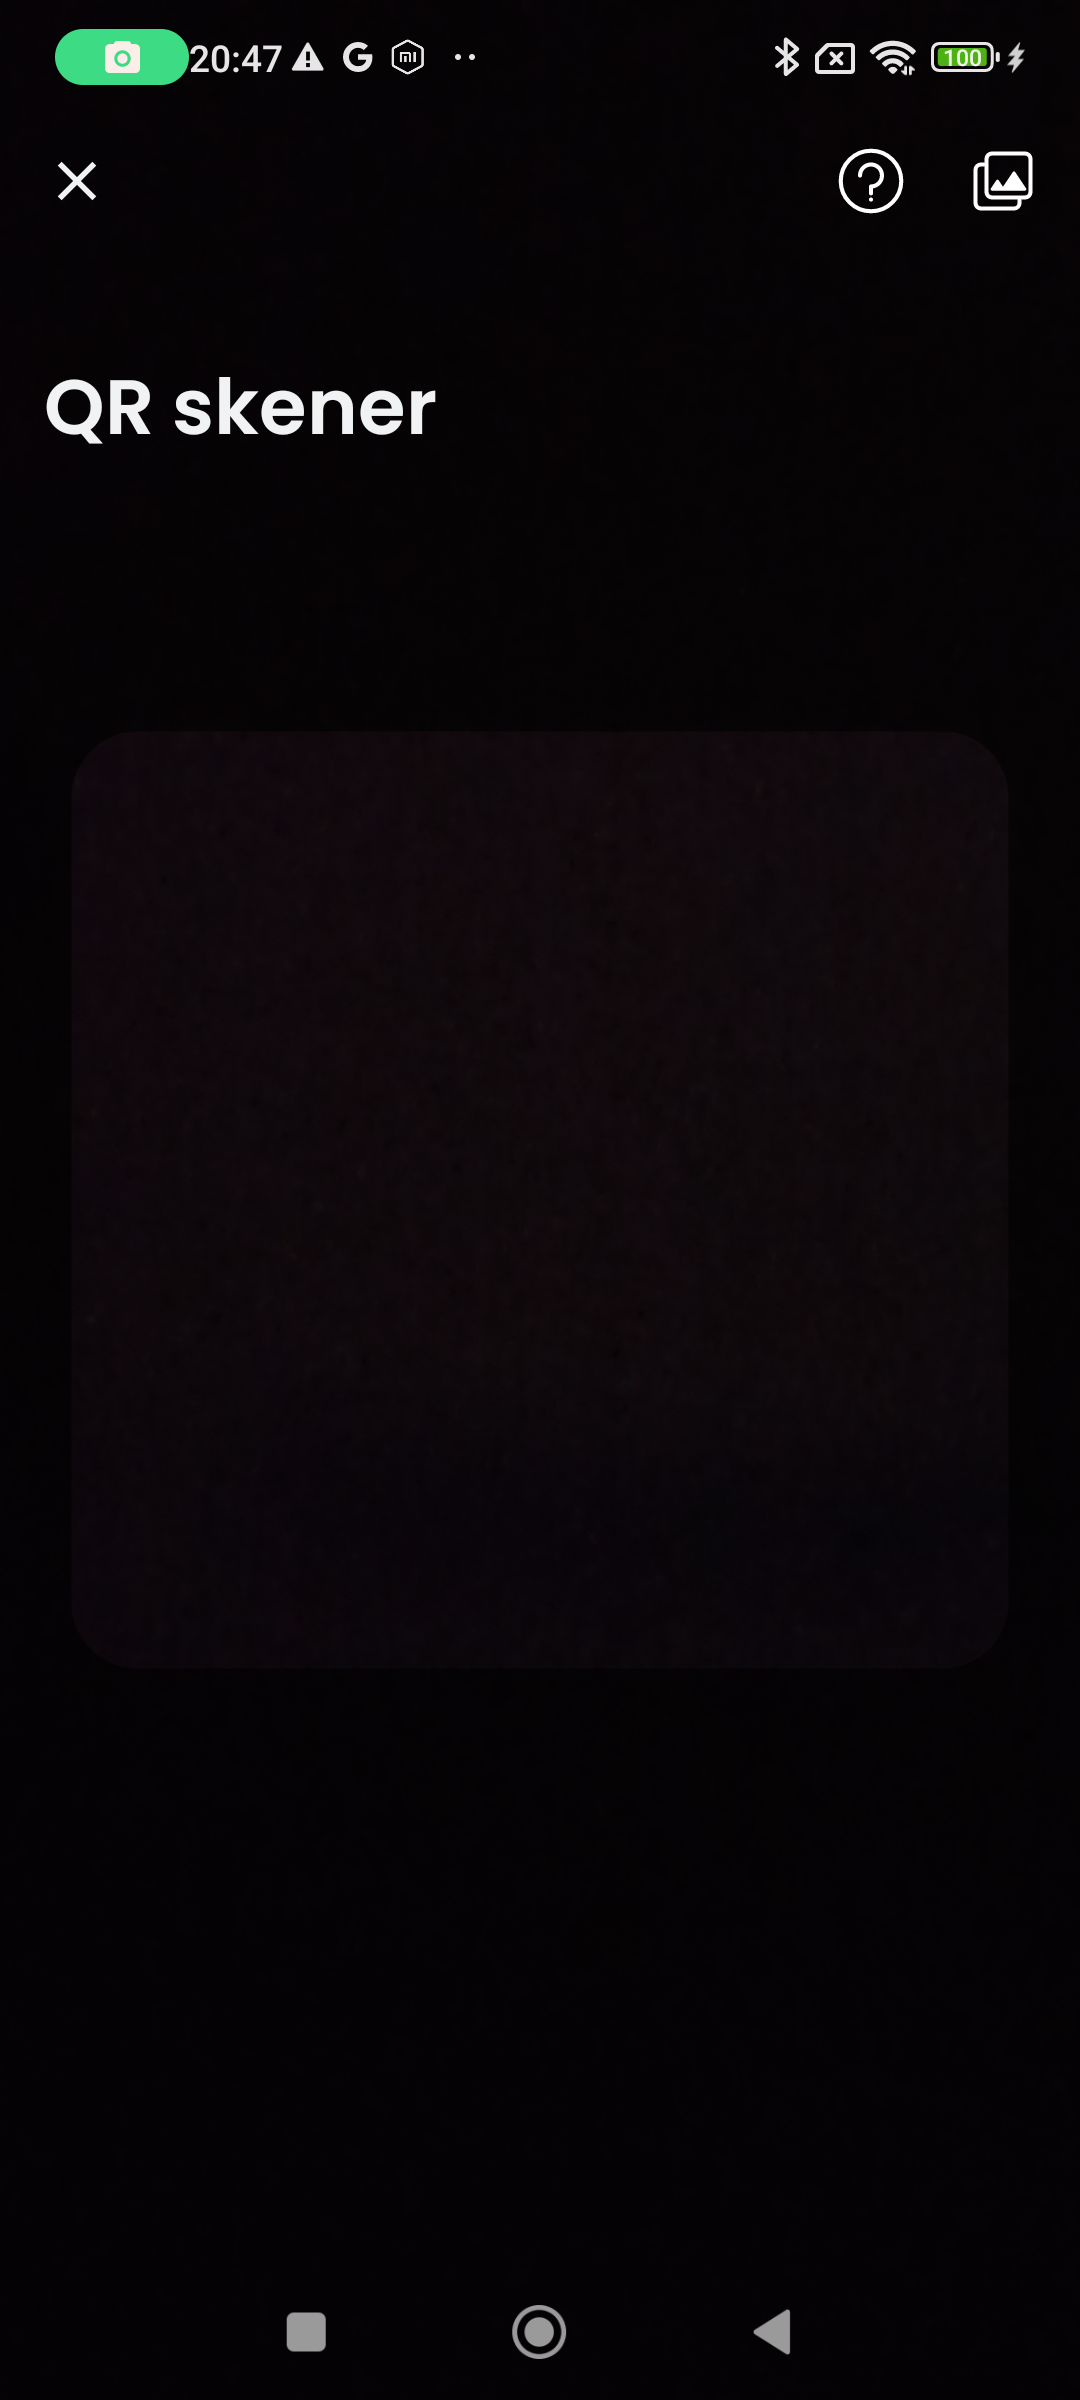
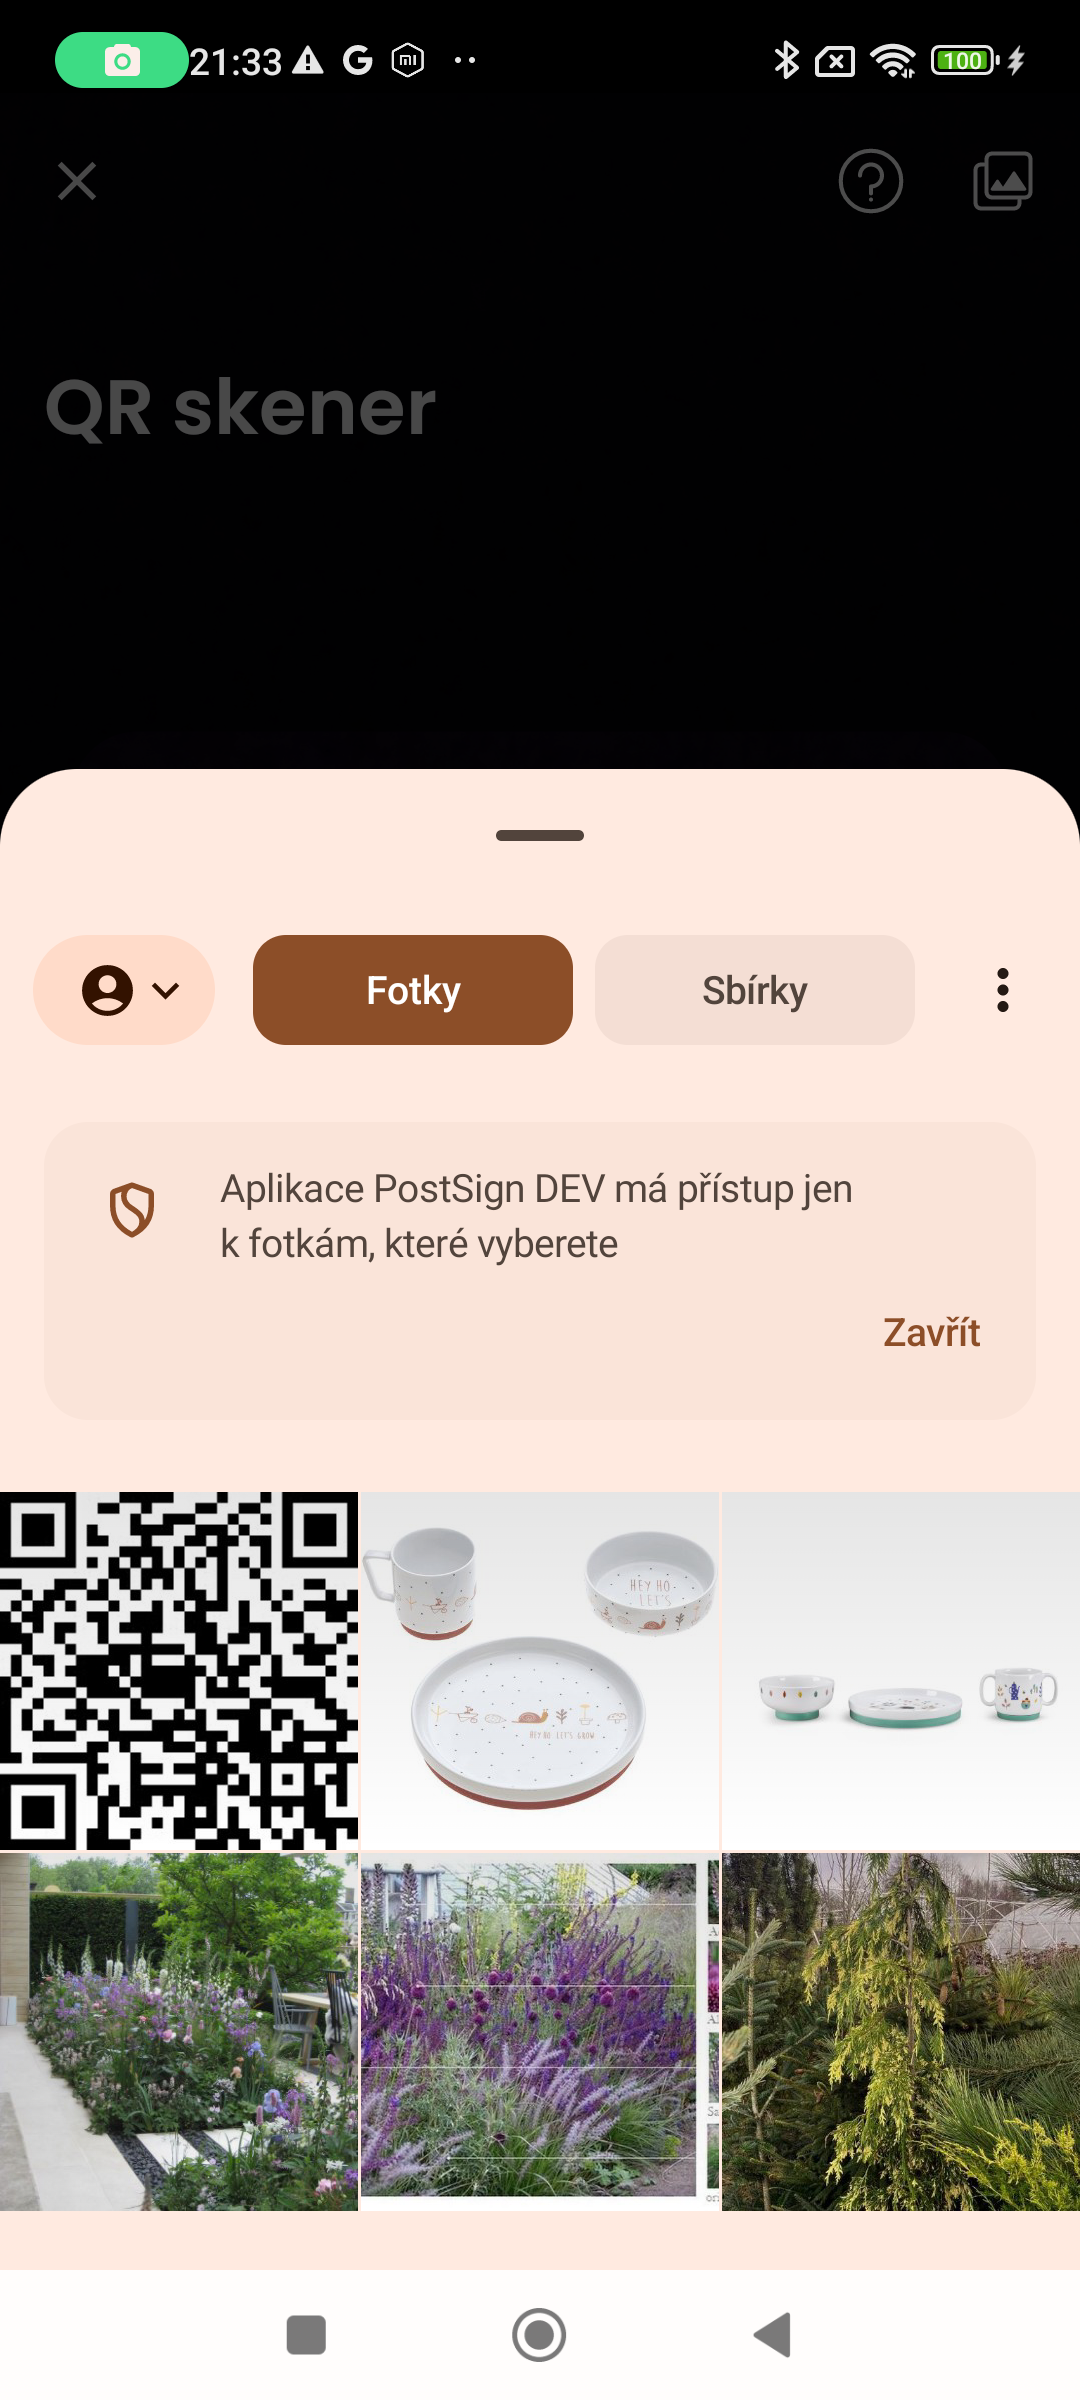
update project

diff --git a/tests/test_scan_qrCode.py b/tests/test_scan_qrCode.py
@@ -1,0 +1,40 @@
+from pages.main_page import MainPage
+from pages.qrScaner_page import QrScanerPage
+from pages.file_picker_page import FilePickerPage
+from utils.files import push_qr_image
+
+
+def test_open_notifications(driver):
+    # Push QR image to device
+    push_qr_image(driver)
+    import time
+    time.sleep(2)
+    
+    # driver.execute_script("mobile: terminateApp", {
+    #     "appId": "cz.monetplus.proidm.cpost.dev"
+    # })
+
+    driver.execute_script("mobile: activateApp", {
+        "appId": "cz.monetplus.proidm.cpost.dev"
+    })
+
+    # Open app
+    page = MainPage(driver)
+    page.verify_page_loaded()
+    page.click_qrScener().verify_page_loaded()
+
+    # Select QR Scanner
+    qr = QrScanerPage(driver)
+    # Select Load Image
+    qr.click_load_image()
+
+    picker = FilePickerPage(driver)
+    picker.select_qr_image()
+    
+    # TODO: dodelat zisk a kontrolu result
+    result = qr.get_result_text()
+    print("Result:", result)
+    assert result == "expected-value"
+
+    driver.save_screenshot("screen.png")
+    assert driver.session_id is not None

diff --git a/pages/qrScaner_page.py b/pages/qrScaner_page.py
@@ -6,8 +6,12 @@ class QrScanerPage(BasePage):
 
     TITLE = (By.XPATH, '//android.widget.TextView[@text="QR skener"]')
     # SCAN_WINDOW = (By.XPATH, '//android.widget.FrameLayout[@content-desc="QR skener"]')
-    
+
     def verify_page_loaded(self):
         # čeká, až se nadpis objeví
         self.find(self.TITLE)
+        return self
+    
+    def click_load_image(self):
+        self.driver.find_element(By.XPATH, '//android.view.View[@content-desc="Vybrat obrázek"]').click()
         return self

diff --git a/conftest.py b/conftest.py
@@ -22,6 +22,7 @@ def driver():
     options.set_capability("appium:appActivity", "com.aheaditec.proid.presentation.activity.MainActivity")
     options.set_capability("appium:appWaitPackage", "cz.monetplus.proidm.cpost.dev")
     options.set_capability("appium:appWaitActivity", "*")
+    # options.set_capability("appium:noReset", True)
     options.set_capability("appium:autoGrantPermissions", True)
     options.set_capability("appium:forceAppLaunch", True)
 

diff --git a/pages/file_picker_page.py b/pages/file_picker_page.py
@@ -1,0 +1,12 @@
+from pages.base_page import BasePage
+from selenium.webdriver.common.by import By
+
+
+class FilePickerPage(BasePage):
+
+    # IMAGE_ITEM = (By.XPATH, '//android.widget.TextView[@text="qrcode.png"]')
+    IMAGE_ITEM = (By.XPATH, '//android.view.View[contains(@content-desc, "Fotka")]')
+
+    def select_qr_image(self):
+        self.click(self.IMAGE_ITEM)
+        return self

diff --git a/utils/files.py b/utils/files.py
@@ -1,0 +1,10 @@
+import base64
+
+
+def push_qr_image(driver, path="tests/data/qrcode.png"):
+    with open(path, "rb") as f:
+        data = f.read()
+
+    encoded = base64.b64encode(data).decode("utf-8")
+
+    driver.push_file("/sdcard/Download/qrcode.png", encoded)
